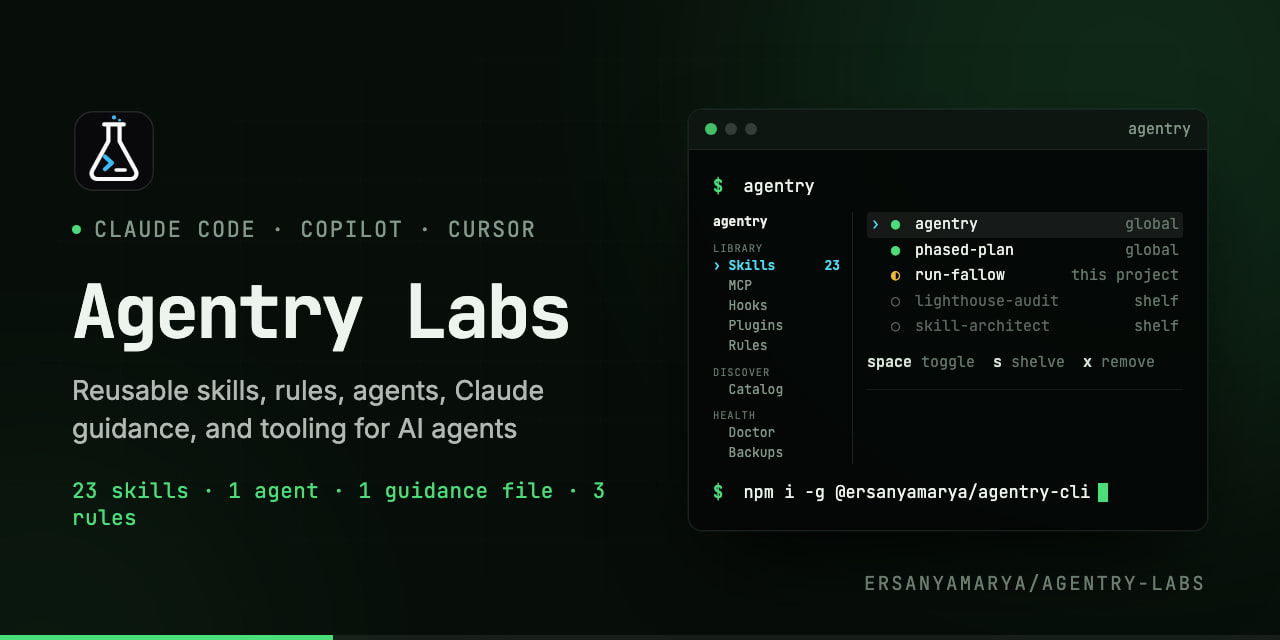
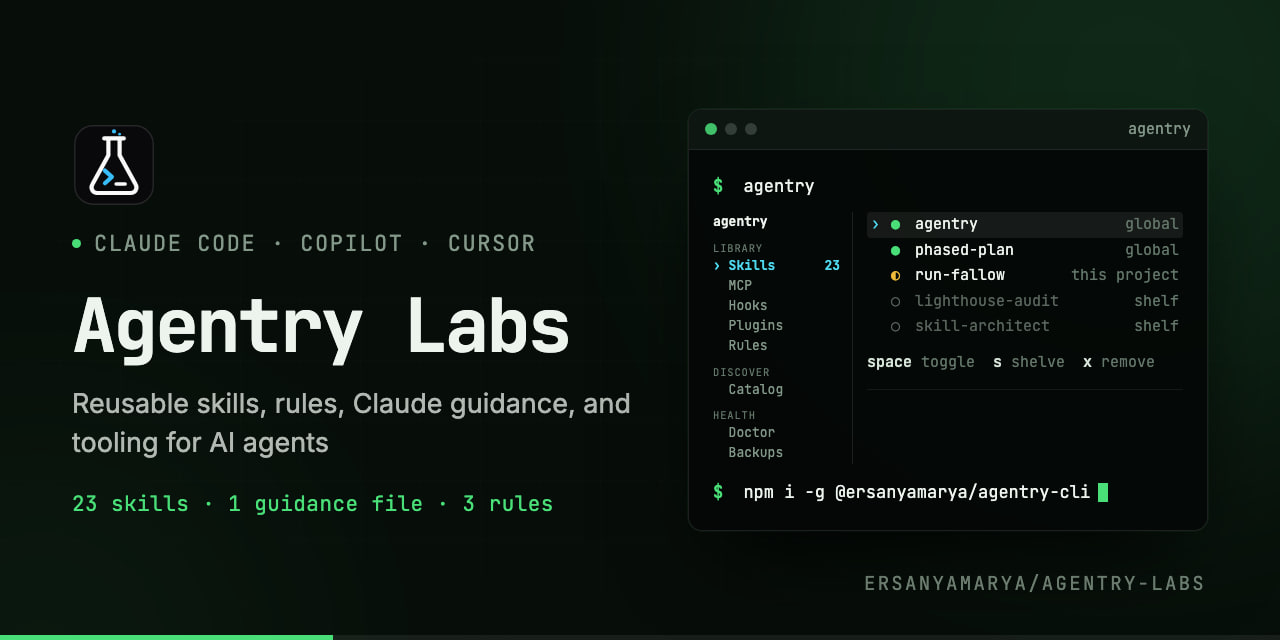
chore: remove the super-planner agent; cover skips a zero count

diff --git a/scripts/image-gen-tools/generate-cover.ts b/scripts/image-gen-tools/generate-cover.ts
@@ -29,7 +29,7 @@ const rules = entries('rules', (n) => n !== 'README.md');
 
 const repo = fs.readFileSync(path.join(ROOT, '.git/config'), 'utf8').match(/url = .*github\.com[:/](.+?)(?:\.git)?\s/)?.[1] ?? '';
 const plural = (n: number, word: string) => `${n} ${word}${n === 1 ? '' : 's'}`;
-const counts = [plural(skills.length, 'skill'), plural(agents.length, 'agent'), plural(guidance.length, 'guidance file'), rules.length ? plural(rules.length, 'rule') : '']
+const counts = [plural(skills.length, 'skill'), agents.length ? plural(agents.length, 'agent') : '', plural(guidance.length, 'guidance file'), rules.length ? plural(rules.length, 'rule') : '']
   .filter(Boolean)
   .join(' · ');
 

diff --git a/README.md b/README.md
@@ -1,8 +1,8 @@
 # Agentry Labs
 
-![Agentry Labs: reusable skills, rules, agents, and tooling for AI agents](.github/assets/cover.jpg)
+![Agentry Labs: reusable skills, rules, Claude guidance, and tooling for AI agents](.github/assets/cover.jpg)
 
-Reusable skills, rules, agents, Claude guidance, and tooling for AI agents
+Reusable skills, rules, Claude guidance, and tooling for AI agents
 
 ## What is Agentry Labs?
 
@@ -85,7 +85,6 @@ Build steps, scripts, the catalog source and every command are in [cli/README.md
 ## Project layout
 
 - `skills/`: Claude Code skills, one folder each
-- `agents/`: agent definitions
 - `rules/`: commit-attribution, context7 and trail rules (setup installs each as a user-level rule)
 - `claude-md-files/`: reusable CLAUDE.md templates
 - `global/`: the settings fragment, MCP config and `helpers/` that the `config` part of `scripts/setup.sh` applies through `scripts/apply-global.mjs`
@@ -137,11 +136,6 @@ Build steps, scripts, the catalog source and every command are in [cli/README.md
 `image-artifact-setup` and `lighthouse-audit` are in `web`; `flutter-brand-icons`, `flutter-bundle-google-fonts`, `flutter-device-scripts-setup` and `flutter-store-assets` are in `flutter-assets`. Turn a bundle on with `agentry shelf on <group>` (see [Skill shelf](#skill-shelf)).
 
 Skills tied to gentlemans-stack layers, generators and libs (Nx workspace and package linking, `api-endpoints`, `service-handler-tests`, `domain-repository-tests` and similar) live in that repo's `.claude/skills` and reach projects through its sync, not from here.
-
-### Agents (`.claude/agents/`)
-| Agent | Description |
-|-------|-------------|
-| `super-planner` | Investigate a task and produce a verified, execution-ready plan without making changes |
 
 ### Rules (`.claude/rules/`)
 | Rule | Description |

diff --git a/CLAUDE.md b/CLAUDE.md
@@ -30,8 +30,6 @@ Remember, before writing any code:
 │   ├── phased-plan/            # Write a phased plan with a model per task: Sonnet rows inline, Haiku and Opus rows as subagents
 │   ├── run-fallow/             # Run fallow CLI for dead code, dupes, complexity, security
 │   └── skill-architect/        # Create, improve, review, and validate skills
-├── agents/              # Custom agent definitions
-│   └── super-planner.agent.md
 ├── claude-md-files/     # Reusable Claude Code project guidance
 │   └── BASIC_CLAUDE.md
 ├── rules/               # commit-attribution, context7, trail (setup installs each as a user-level rule)
